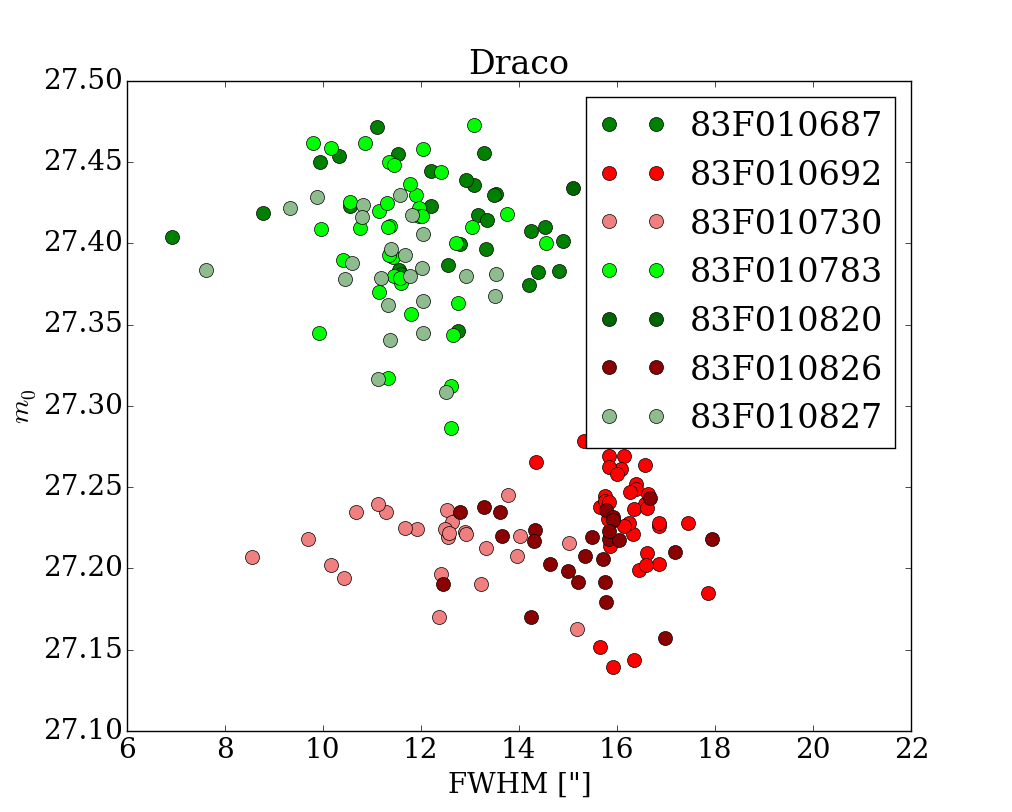
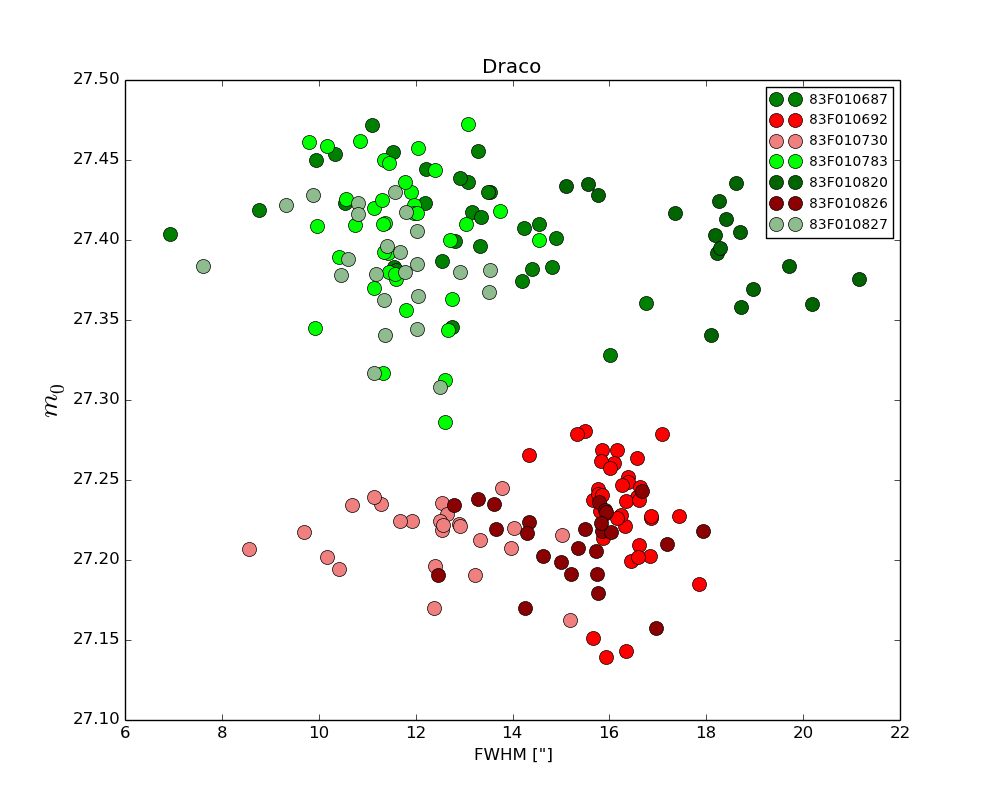
Updated statistics plotting

diff --git a/plotstats.py b/plotstats.py
@@ -1,5 +1,6 @@
 from numpy import *
 import matplotlib.pyplot as plt
+import numpy as np
 plt.ion()
 
 outlierremove = True
@@ -16,6 +17,20 @@ airmasses = stats[:,6].astype(float)
 m0s = stats[:,7].astype(float)
 fwhms = stats[:,8].astype(float)
 dates = stats[:,9]
+slopes = stats[:,10].astype(float)
+
+order = times.argsort()
+objects = objects[order]
+times = times[order]
+serials = serials[order]
+colours = colours[order]
+expns = expns[order]
+altitudes = altitudes[order]
+airmasses = airmasses[order]
+m0s = m0s[order]
+fwhms = fwhms[order]
+dates = dates[order]
+slopes = slopes[order]
 
 spi = where(objects == 'spi1_1')
 dra = where(objects == 'PGM_1_2')
@@ -30,37 +45,57 @@ names['dra'] = 'Draco'
 
 figinds = {}
 figinds['spi'] = 0
-figinds['dra'] = 5
+figinds['dra'] = 6
 
 reds = ['r','lightcoral','darkred','darkorange','indianred']
 greens = ['g','lime','darkgreen','darkseagreen','greenyellow']
 
 for key in names.keys():
+	if key == 'dra':
+		daydiv = 0.1
+	if key == 'spi':
+		daydiv = 0.05
 	serial = serials[inds[key]]
 	colour = colours[inds[key]]
 	m0 = m0s[inds[key]]
 	am = airmasses[inds[key]]
 	fwhm = fwhms[inds[key]]
 	time = times[inds[key]]
+	time -= np.min(time)
 	date = dates[inds[key]]
+	slope = slopes[inds[key]]
+	diff = abs(roll(time,1)-time)
+	transition = where(diff > 0.1)
+	transition = delete(transition, 0)
+	daysplits = []
+	for t in transition:
+		indstochange = arange(t,len(time))
+		for j in indstochange:
+			time[j] -= diff[t]
+			time[j] += daydiv
+		try:
+			daysplits.append(0.5*(time[t]-time[t-1])+time[t-1])
+		except IndexError:
+			continue
 	if outlierremove:
-		good = where((fwhm < 30) & (m0 > 26.5))
+		good = where((fwhm < 30) & (m0 > 26.5))# & (slope > 0.5) & (slope < 4))
 		serial = serial[good]
 		colour = colour[good]
 		m0 = m0[good]
 		am = am[good]
 		fwhm = fwhm[good]
 		time = time[good]
+		slope = slope[good]
 	cams = unique(serial)
 	cr = 0
 	cg = 0
 	plt.figure(1+figinds[key],figsize = (10,8))
 	plt.title(names[key])
-	plt.xlabel('Time [Exposure Number]')
+	plt.xlabel('Time')
 	plt.ylabel('$m_0$',fontsize = 20)
 	plt.figure(2+figinds[key],figsize = (10,8))
 	plt.title(names[key])
-	plt.xlabel('Time [Exposure Number]')
+	plt.xlabel('Time')
 	plt.ylabel('FWHM ["]')
 	plt.figure(3+figinds[key],figsize = (10,8))
 	plt.title(names[key])
@@ -73,7 +108,11 @@ for key in names.keys():
 	plt.figure(5+figinds[key],figsize = (10,8))
 	plt.title(names[key])	
 	plt.xlabel('Airmass')
-	plt.ylabel('$m_0$',fontsize = 20)	
+	plt.ylabel('$m_0$',fontsize = 20)
+	plt.figure(6+figinds[key],figsize = (10,8))
+	plt.title(names[key])	
+	plt.xlabel('Time')
+	plt.ylabel('Slope')
 	for cam in cams:
 		i = where(cam == serial)
 		c = colour[i][0]
@@ -83,44 +122,58 @@ for key in names.keys():
 		elif c == 'SloanR':
 			color = reds[cr]
 			cr += 1
-		order = time[i].argsort()
 		plt.figure(1+figinds[key])
-		plt.plot(m0[i][order],'o',color = color,markersize = 10,label = cam)
+		plt.plot(time[i],m0[i],'o',color = color,markersize = 10,label = cam)
 		plt.figure(2+figinds[key])
-		plt.plot(fwhm[i][order],'o',color = color,markersize = 10,label = cam)
+		plt.plot(time[i],fwhm[i],'o',color = color,markersize = 10,label = cam)
 		plt.figure(3+figinds[key])
 		plt.plot(fwhm[i],m0[i],'o',color = color,markersize = 10,label = cam)
 		plt.figure(4+figinds[key])
 		plt.plot(am[i],fwhm[i],'o',color = color,markersize = 10,label = cam)
 		plt.figure(5+figinds[key])
 		plt.plot(am[i],m0[i],'o',color = color,markersize = 10,label = cam)
+		plt.figure(6+figinds[key])
+		plt.plot(time[i],slope[i],'o',color=color,markersize = 10,label = cam)
+	for day in daysplits:
+		plt.figure(1+figinds[key])
+		plt.axvline(day,color='k',linewidth = 4)
+		plt.figure(2+figinds[key])
+		plt.axvline(day,color='k',linewidth = 4)
+		plt.figure(6+figinds[key])
+		plt.axvline(day,color='k',linewidth = 4)
 	plt.figure(1+figinds[key])
-	plt.legend(loc = 'best')
+	plt.legend(loc = 'best',fontsize = 10)
 	if not outlierremove:
 		plt.savefig('stats/{0}_m0_time.png'.format(names[key]))
 	if outlierremove:
 		plt.savefig('stats/no_out_{0}_m0_time.png'.format(names[key]))
 	plt.figure(2+figinds[key])
-	plt.legend(loc = 'best')
+	plt.legend(loc = 'best',fontsize = 10)
 	if not outlierremove:
 		plt.savefig('stats/{0}_FWHM_time.png'.format(names[key]))
 	if outlierremove:
 		plt.savefig('stats/no_out_{0}_FWHM_time.png'.format(names[key]))
 	plt.figure(3+figinds[key])
-	plt.legend(loc = 'best')
+	plt.legend(loc = 'best',fontsize = 10)
 	if not outlierremove:
 		plt.savefig('stats/{0}_FWHM_m0.png'.format(names[key]))
 	if outlierremove:
 		plt.savefig('stats/no_out_{0}_FWHM_m0.png'.format(names[key]))
 	plt.figure(4+figinds[key])
-	plt.legend(loc = 'best')
+	plt.legend(loc = 'best',fontsize = 10)
 	if not outlierremove:
 		plt.savefig('stats/{0}_airmass_FWHM.png'.format(names[key]))
 	if outlierremove:
 		plt.savefig('stats/no_out_{0}_airmass_FWHM.png'.format(names[key]))
 	plt.figure(5+figinds[key])
-	plt.legend(loc = 'best')
+	plt.legend(loc = 'best',fontsize = 10)
 	if not outlierremove:
 		plt.savefig('stats/{0}_airmass_m0.png'.format(names[key]))
 	if outlierremove:
 		plt.savefig('stats/no_out_{0}_airmass_m0.png'.format(names[key]))
+	plt.figure(6+figinds[key])
+	plt.legend(loc = 'best',fontsize = 10)
+	if not outlierremove:
+		plt.savefig('stats/{0}_slope_time.png'.format(names[key]))
+	if outlierremove:
+		plt.savefig('stats/no_out_{0}_slope_time.png'.format(names[key]))
